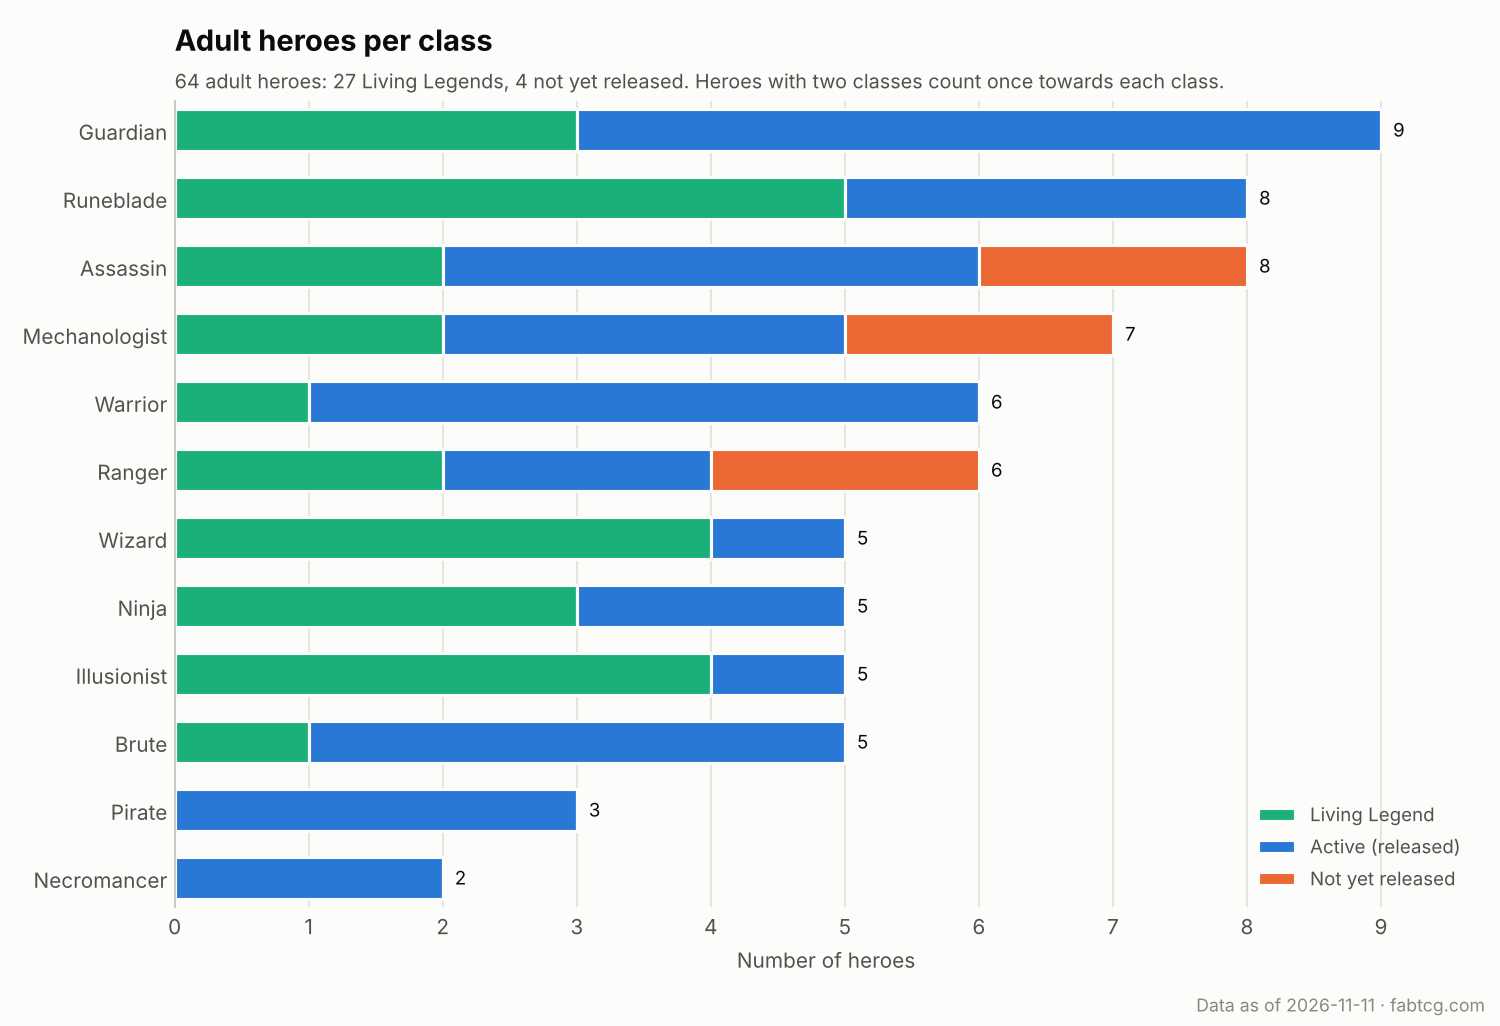
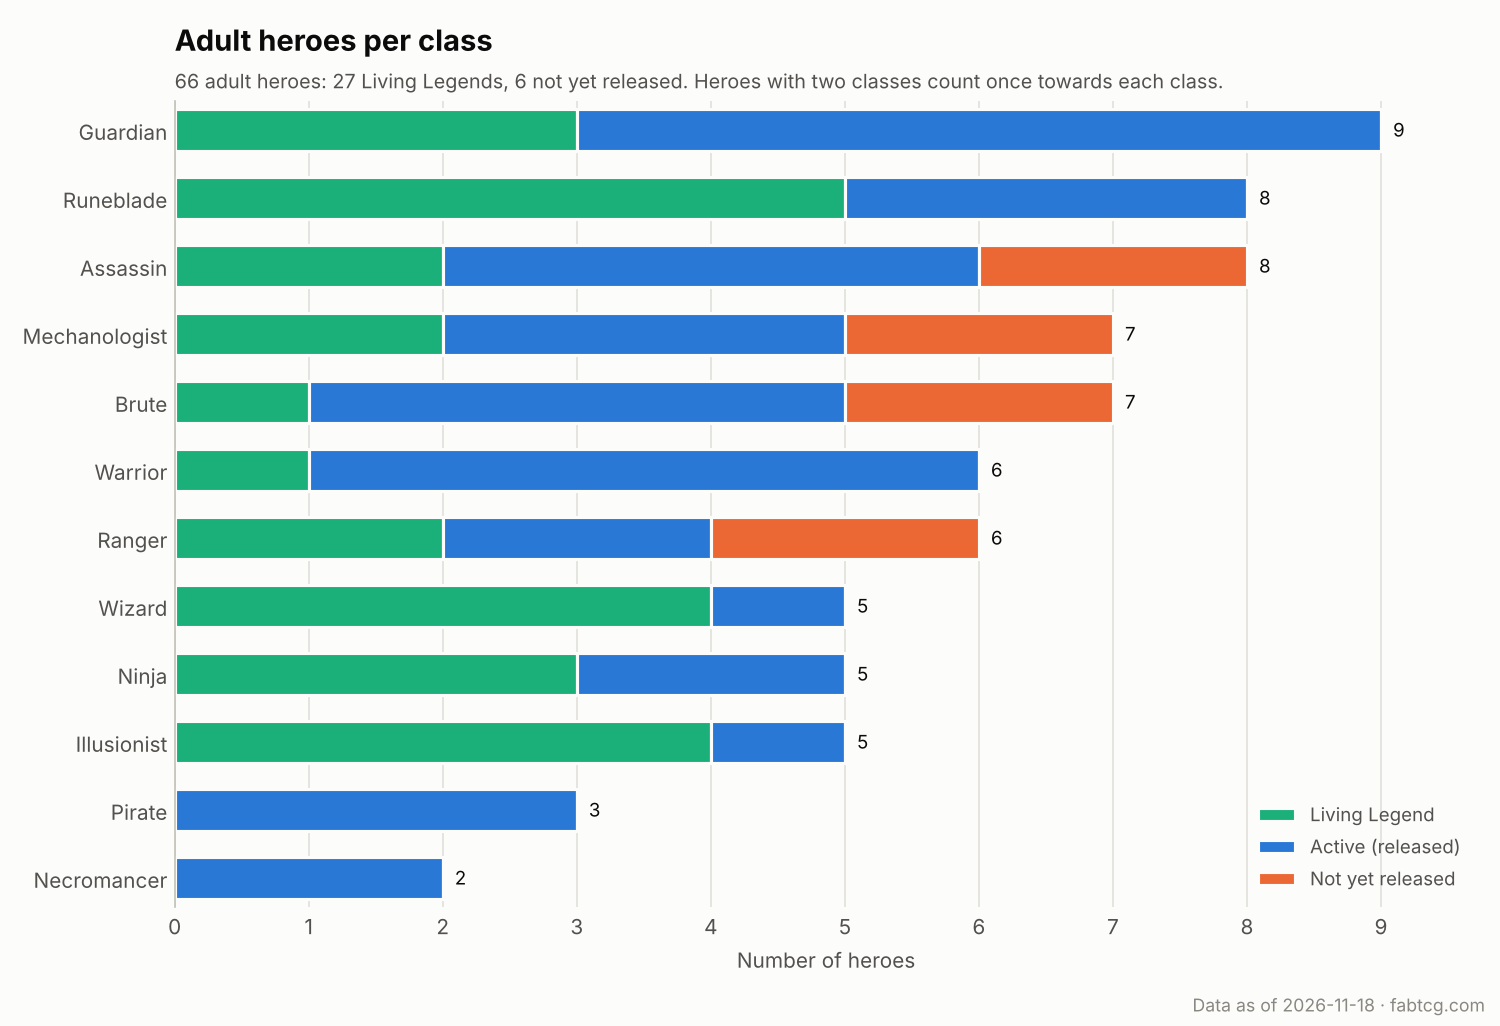
Update charts for 2026-11-18
Claude-Session: https://claude.ai/code/session_01RJ4HDFrEYHyqZwFHFP2aWf

diff --git a/README.md b/README.md
@@ -19,22 +19,22 @@ The same numbers as the charts. The full data is in
 [`data/heroes.csv`](data/heroes.csv) (one row per hero).
 
 <!-- class-summary:start -->
-_Data as of 2026-11-11._
+_Data as of 2026-11-18._
 
 | Class | LL heroes | Active heroes | Not yet released | Total heroes | LL points (LL heroes) | LL points (active heroes) | Total LL points |
 |---|---:|---:|---:|---:|---:|---:|---:|
 | Runeblade | 5 | 3 | 0 | 8 | 5,356 | 332 | 5,688 |
-| Guardian | 3 | 6 | 0 | 9 | 3,801 | 1,358 | 5,159 |
+| Guardian | 3 | 6 | 0 | 9 | 3,801 | 1,368 | 5,169 |
 | Illusionist | 4 | 1 | 0 | 5 | 4,250 | 29 | 4,279 |
 | Ninja | 3 | 2 | 0 | 5 | 3,136 | 960 | 4,096 |
 | Wizard | 4 | 1 | 0 | 5 | 4,072 | 20 | 4,092 |
 | Assassin | 2 | 4 | 2 | 8 | 2,067 | 904 | 2,971 |
-| Warrior | 1 | 5 | 0 | 6 | 1,048 | 1,862 | 2,910 |
+| Warrior | 1 | 5 | 0 | 6 | 1,048 | 1,882 | 2,930 |
 | Ranger | 2 | 2 | 2 | 6 | 2,312 | 154 | 2,466 |
-| Mechanologist | 2 | 3 | 2 | 7 | 2,017 | 347 | 2,364 |
-| Brute | 1 | 4 | 0 | 5 | 1,014 | 732 | 1,746 |
-| Pirate | 0 | 3 | 0 | 3 | 0 | 723 | 723 |
-| Necromancer | 0 | 2 | 0 | 2 | 0 | 629 | 629 |
+| Mechanologist | 2 | 3 | 2 | 7 | 2,017 | 362 | 2,379 |
+| Brute | 1 | 4 | 2 | 7 | 1,014 | 807 | 1,821 |
+| Pirate | 0 | 3 | 0 | 3 | 0 | 733 | 733 |
+| Necromancer | 0 | 2 | 0 | 2 | 0 | 639 | 639 |
 <!-- class-summary:end -->
 
 ## How the data is built
